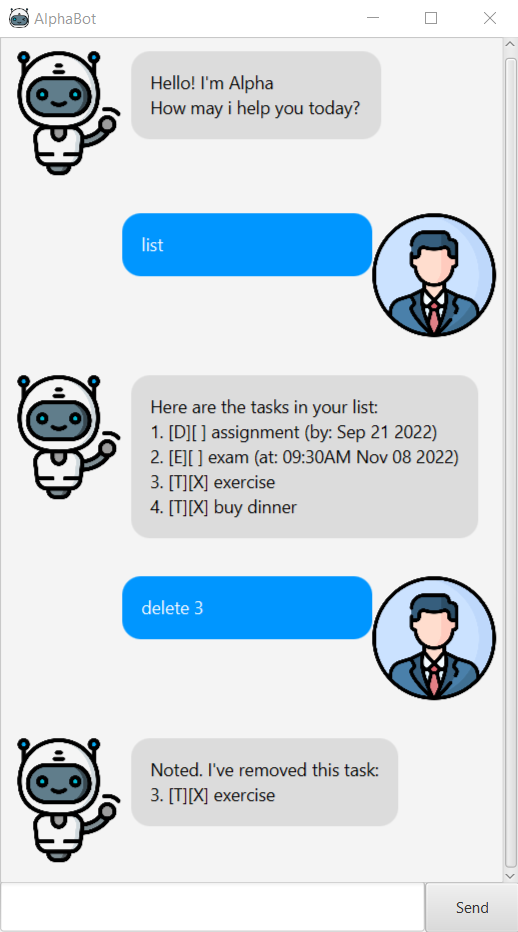
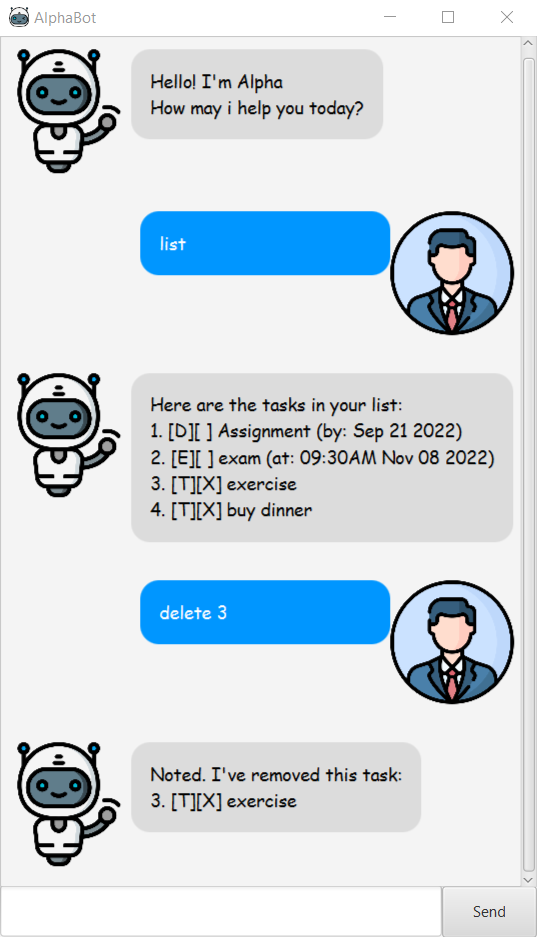
Update User Guide and code reuse mentions

diff --git a/src/main/java/duke/gui/DialogBox.java b/src/main/java/duke/gui/DialogBox.java
@@ -14,6 +14,8 @@ import javafx.scene.image.Image;
 import javafx.scene.image.ImageView;
 import javafx.scene.layout.HBox;
 
+//@@author L1Y1jun-reused
+//Adapted from: https://se-education.org/guides/tutorials/javaFxPart4.html#javafx-tutorial-part-4-using-fxml
 /**
  * An example of a custom control using FXML.
  * This control represents a dialog box consisting of an ImageView to represent the speaker's face and a label
@@ -69,6 +71,7 @@ public class DialogBox extends HBox {
         this.dialog.setStyle("-fx-background-color: #0096FF;"
                 + "-fx-text-fill: white;"
                 + "-fx-min-width: 200px;"
+                + "-fx-font-family: 'Comic Sans MS';"
                 + "-fx-font-size: 14;"
                 + "-fx-alignment: baseline-left;"
                 + "-fx-border-width: 0;"
@@ -83,6 +86,7 @@ public class DialogBox extends HBox {
         this.dialog.setStyle("-fx-background-color: #DCDCDC;"
                 + "-fx-text-fill: black;"
                 + "-fx-min-width: 200px;"
+                + "-fx-font-family: 'Comic Sans MS';"
                 + "-fx-font-size: 14;"
                 + "-fx-alignment: baseline-left;"
                 + "-fx-border-width: 0;"
@@ -90,3 +94,4 @@ public class DialogBox extends HBox {
                 + "-fx-padding: 15.0");
     }
 }
+//@@author

diff --git a/src/main/java/duke/gui/MainWindow.java b/src/main/java/duke/gui/MainWindow.java
@@ -10,6 +10,8 @@ import javafx.scene.image.Image;
 import javafx.scene.layout.AnchorPane;
 import javafx.scene.layout.VBox;
 
+//@@author L1Y1jun-reused
+//Adapted from: https://se-education.org/guides/tutorials/javaFxPart4.html#javafx-tutorial-part-4-using-fxml
 /**
  * Controller for MainWindow. Provides the layout for the other controls.
  */
@@ -65,3 +67,4 @@ public class MainWindow extends AnchorPane {
         userInput.clear();
     }
 }
+//@@author

diff --git a/src/main/java/duke/gui/Main.java b/src/main/java/duke/gui/Main.java
@@ -10,6 +10,8 @@ import javafx.scene.image.Image;
 import javafx.scene.layout.AnchorPane;
 import javafx.stage.Stage;
 
+//@@author L1Y1jun-reused
+//Adapted from: https://se-education.org/guides/tutorials/javaFxPart4.html#javafx-tutorial-part-4-using-fxml
 /**
  * A GUI for Duke using FXML.
  */
@@ -35,3 +37,4 @@ public class Main extends Application {
         }
     }
 }
+//@@author

diff --git a/docs/README.md b/docs/README.md
@@ -1,21 +1,23 @@
----
 # User Guide
 
----
 **AlphaBot** is a desktop application that can help you manage a schedule, edit it and stores it for future use. It is super simple and easy to use!
 
 ## Quick start
+
 1. Ensure you have Java 11 or above installed in your Computer.
-2. Download AlphaBot.jar from [here]() in case you have yet to do so!
+
+2. Download AlphaBot.jar from [here](https://github.com/L1uY1jun/ip/releases/tag/A-Release) in case you have yet to do so!
+
 3. When you start up the application, a GUI similar to below should appear in a few seconds.
-  ![Ui](Ui.png)
+  ![Ui](images/initialUi.png)
+
 4. There 3 types of tasks you can create on this application:
    * **ToDo**: A task with a short description on the details.
    * **Deadline**: A task with a short description and a due date specified by user.
    * **Event**: A task with a short description and the time and date of the event.
+
 5. Refer to the [Features](#features) section below for more details on the commands available for you to schedule your tasks!
 
----
 ## Features
 > **Notes on the features before you get started**
 * Words encased in braces `{ }` are `{parameters}` to be input by the user for each command.
